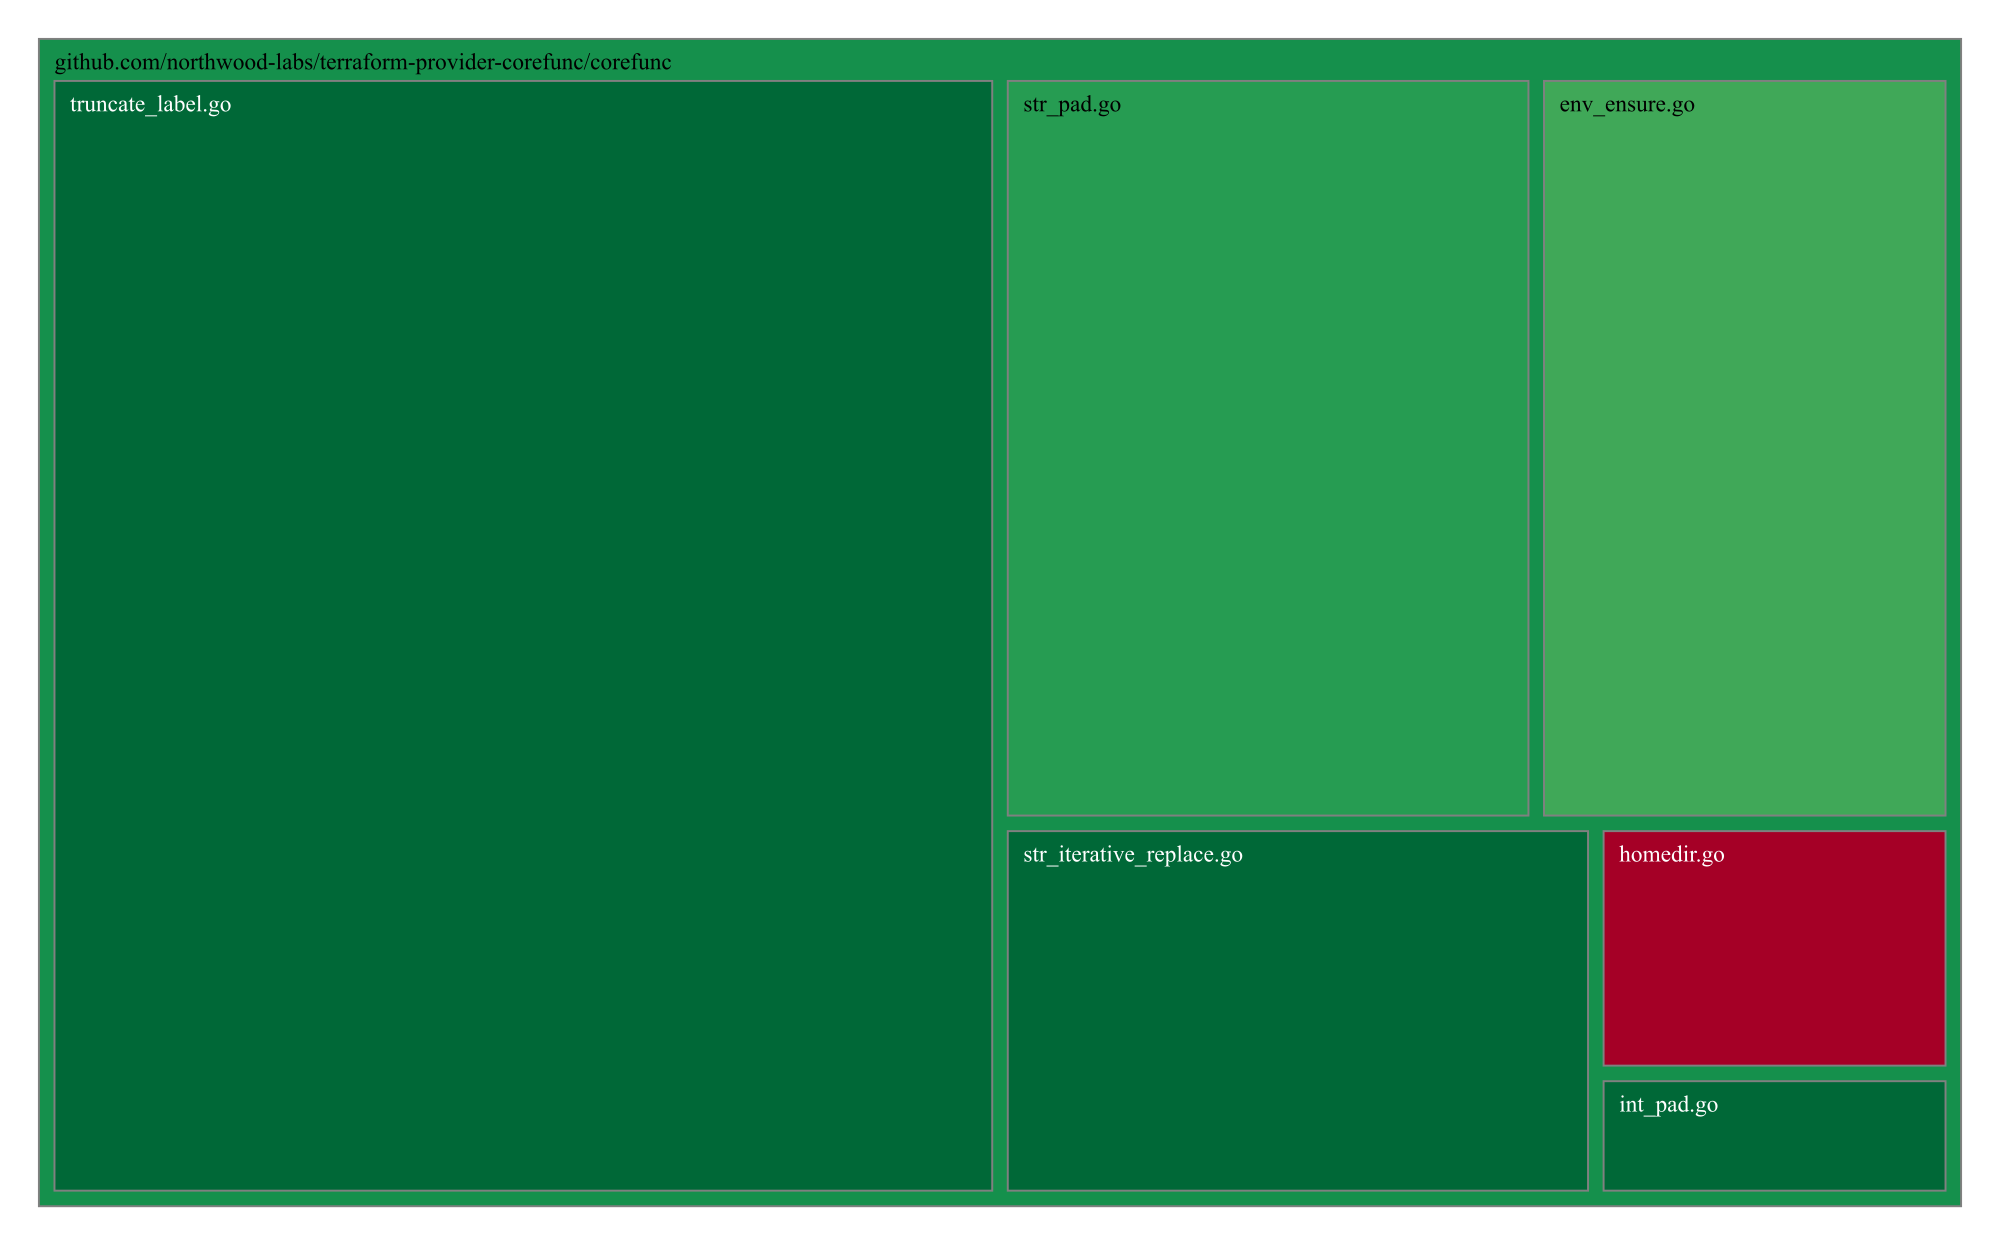
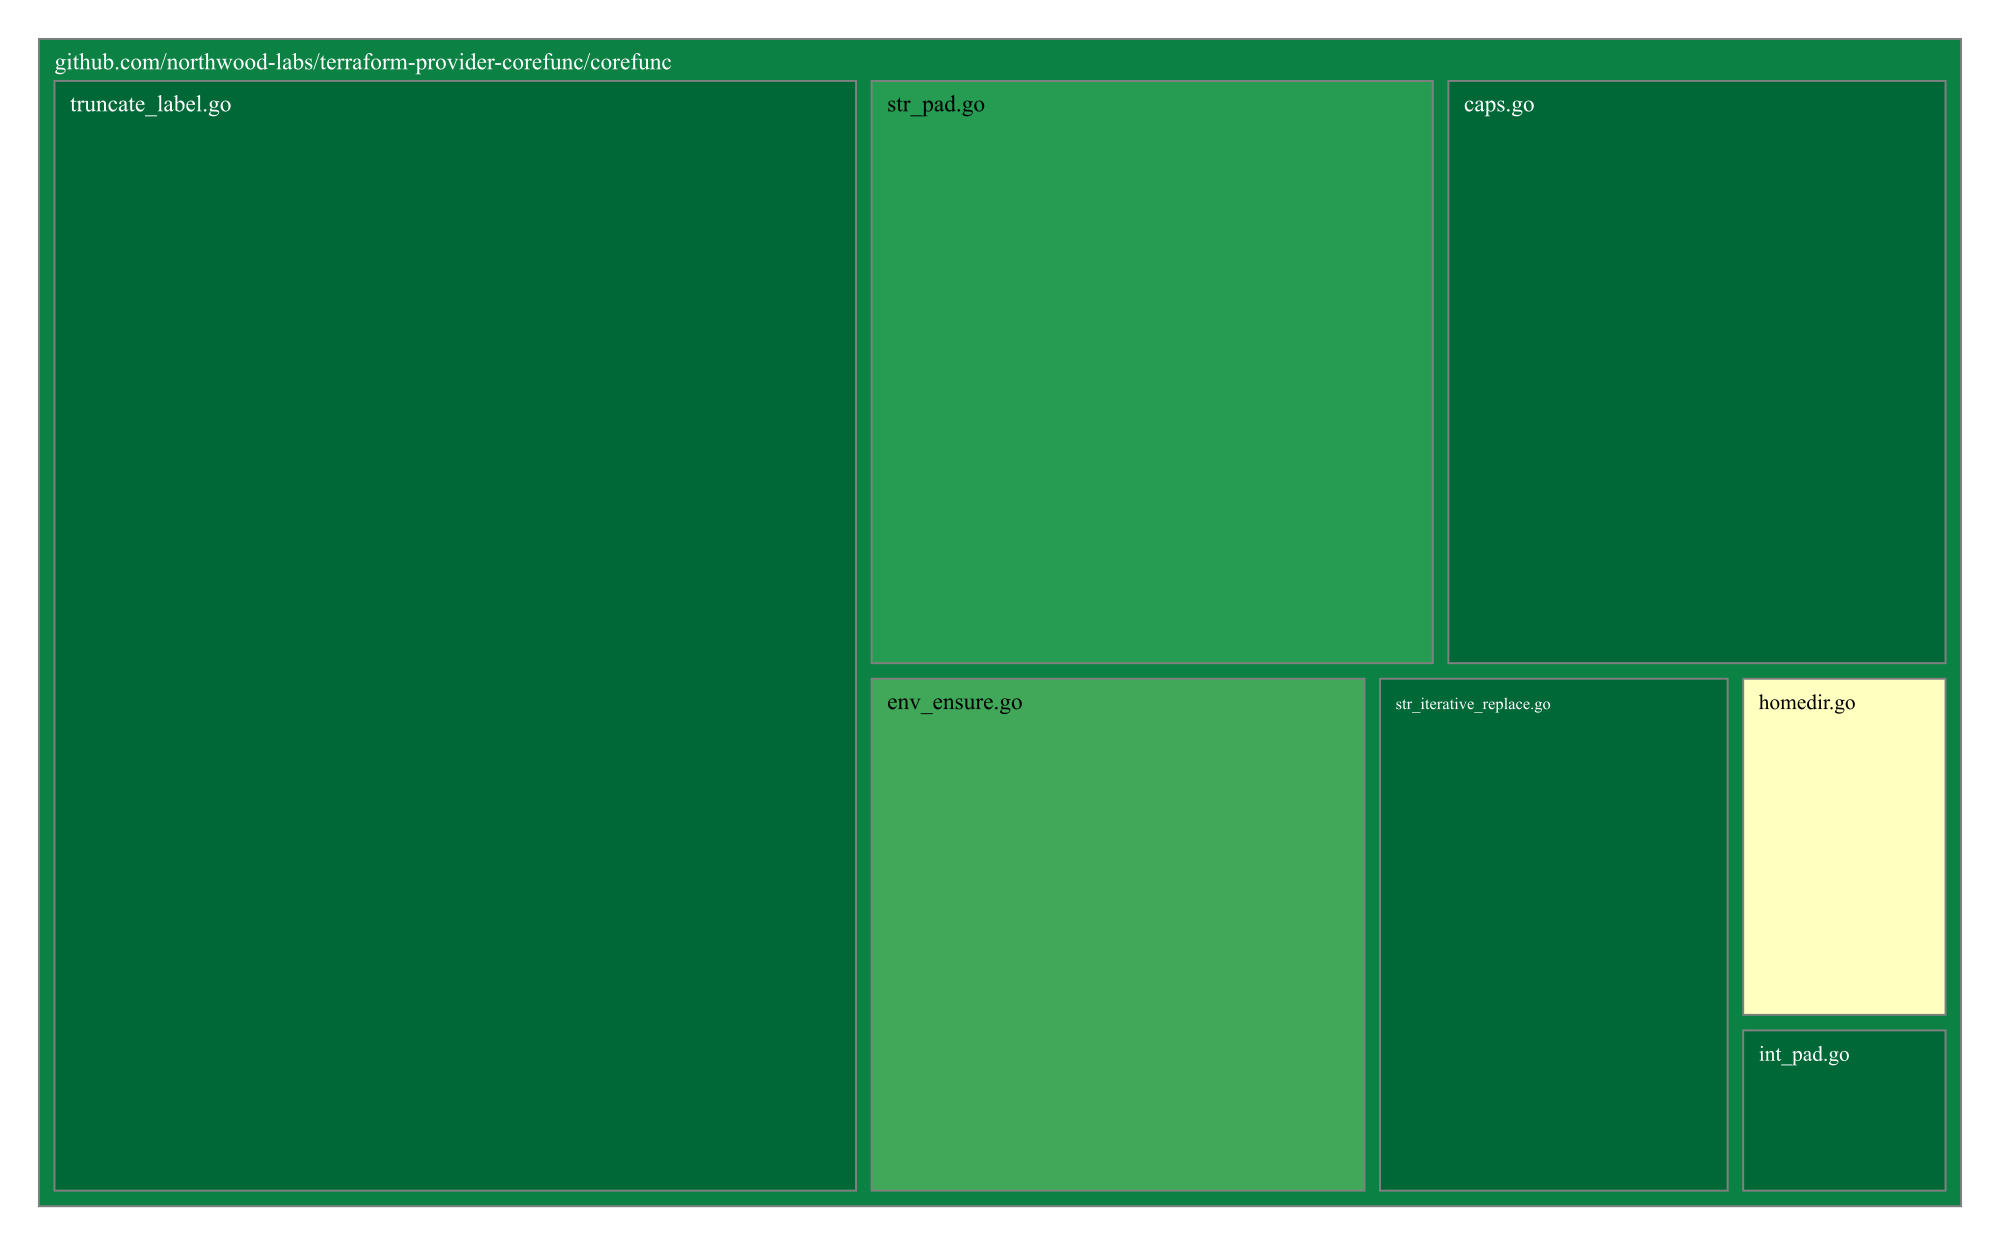
feat: Added initial support for Homedir lookups.

diff --git a/corefunc/homedir_test.go b/corefunc/homedir_test.go
@@ -15,17 +15,12 @@
 package corefunc
 
 import (
-	"os"
 	"testing"
 
 	"github.com/northwood-labs/terraform-provider-corefunc/testfixtures"
 )
 
 func TestHomedir(t *testing.T) {
-	if os.Getenv("GITHUB_ACTIONS") == "" {
-		t.SkipNow()
-	}
-
 	for name, tc := range testfixtures.HomedirGetTestTable {
 		t.Run(name, func(t *testing.T) {
 			output, err := Homedir()

diff --git a/corefuncprovider/homedir_get_data_source_test.go b/corefuncprovider/homedir_get_data_source_test.go
@@ -29,10 +29,6 @@ import (
 )
 
 func TestAccHomedirGetDataSource(t *testing.T) {
-	if os.Getenv("GITHUB_ACTIONS") == "" {
-		t.SkipNow()
-	}
-
 	funcName := traceFuncName()
 
 	for name, tc := range testfixtures.HomedirGetTestTable { // lint:no_dupe

diff --git a/README.md b/README.md
@@ -44,6 +44,7 @@ If you are using this as a Go library, see the documentation at [pkg.go.dev](htt
 Don't reimplement things that already work well. This project leans on the following libraries:
 
 * [chanced/caps](https://github.com/chanced/caps) — Handles the case manipulation.
+* [mitchellh/go-homedir](https://github.com/mitchellh/go-homedir) — Handles looking-up a user's home directory without CGO.
 
 ## More Information
 
